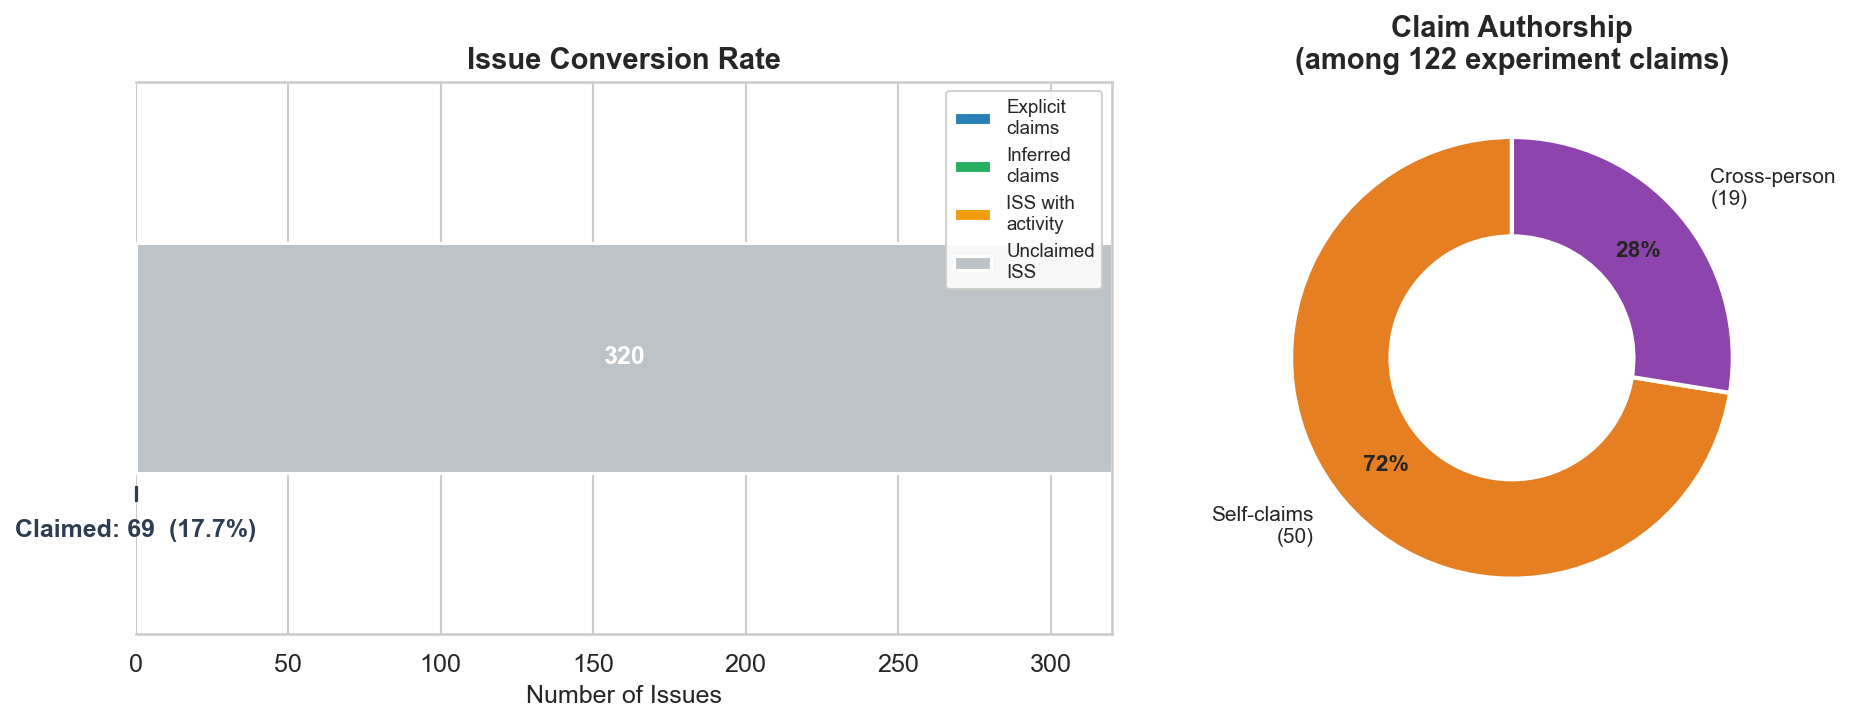
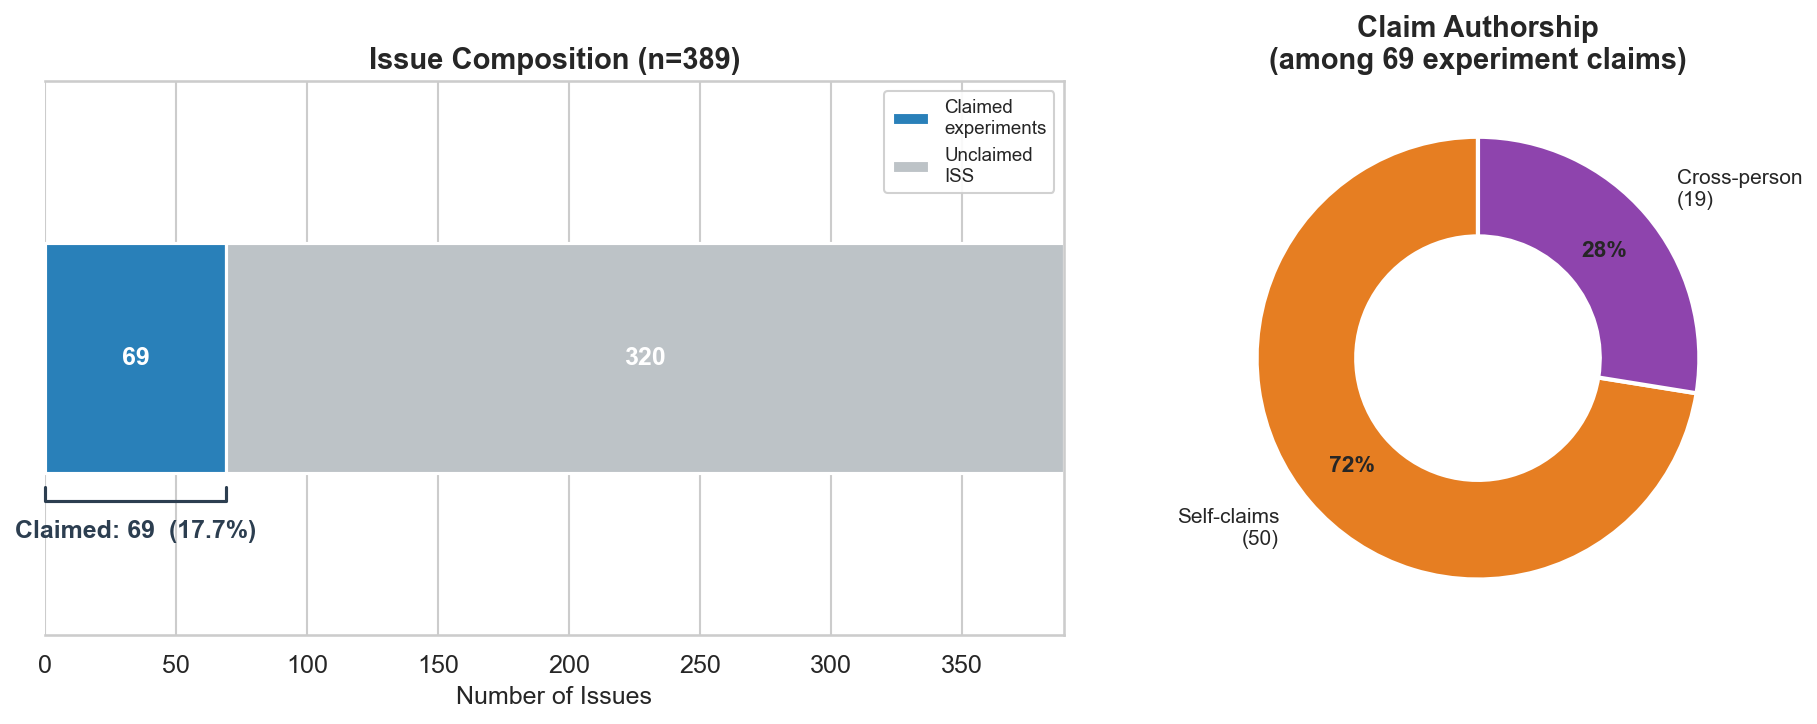
Fix fig1 PNG: simplify to 2-segment bar (claimed vs unclaimed)
The old 4-segment breakdown (explicit/inferred/ISS with activity/unclaimed)
had all zeros except unclaimed, rendering only one visible bar. Simplified
to claimed experiments (69) vs unclaimed ISS (320). Also updated the HTML
interactive version with current data (389/69/25/44).

diff --git a/output/evidence_bundles/evd1-conversion-rate/fig1_conversion_rate.html b/output/evidence_bundles/evd1-conversion-rate/fig1_conversion_rate.html
@@ -385,33 +385,33 @@
 <body>
     <div class="container">
         <h1>Issue Conversion Rate</h1>
-        <div class="subtitle">MATSUlab discourse graph &middot; January 2026 snapshot &middot; EVD 1</div>
+        <div class="subtitle">MATSUlab discourse graph &middot; February 2026 snapshot &middot; EVD 1</div>
 
         <div class="evidence-statement">
-            <strong>Result:</strong> 29% of MATSUlab issues (n=434) were claimed as experiments and 38% of those claimed at least one formal result node, yielding 136 total RES nodes.
+            <strong>Result:</strong> 18% of MATSUlab issues (n=389) were claimed as experiments and 36% of those claimed at least one formal result node, yielding 44 total RES nodes.
         </div>
 
         <!-- Summary cards -->
         <div class="summary-cards">
             <div class="card animate-fade animate-delay-1">
-                <div class="card-number" style="color: #6b7280;">434</div>
+                <div class="card-number" style="color: #6b7280;">389</div>
                 <div class="card-label">Total Issues</div>
-                <div class="card-sublabel">312 ISS + 122 experiments</div>
+                <div class="card-sublabel">320 ISS + 69 experiments</div>
             </div>
             <div class="card animate-fade animate-delay-2">
-                <div class="card-number" style="color: #2563eb;">127</div>
+                <div class="card-number" style="color: #2563eb;">69</div>
                 <div class="card-label">Claimed</div>
-                <div class="card-sublabel">29.3% conversion rate</div>
+                <div class="card-sublabel">17.7% conversion rate</div>
             </div>
             <div class="card animate-fade animate-delay-3">
-                <div class="card-number" style="color: #7c3aed;">48</div>
+                <div class="card-number" style="color: #7c3aed;">25</div>
                 <div class="card-label">Produced Results</div>
-                <div class="card-sublabel">38% of claimed</div>
+                <div class="card-sublabel">36% of claimed</div>
             </div>
             <div class="card animate-fade animate-delay-4">
-                <div class="card-number" style="color: #059669;">136</div>
+                <div class="card-number" style="color: #059669;">44</div>
                 <div class="card-label">Total RES Nodes</div>
-                <div class="card-sublabel">avg 2.8 per experiment</div>
+                <div class="card-sublabel">avg 1.8 per experiment</div>
             </div>
         </div>
 
@@ -419,7 +419,7 @@
         <div class="panels">
             <!-- Left panel: stacked bar -->
             <div class="panel">
-                <div class="panel-title">Issue Composition (n=434)</div>
+                <div class="panel-title">Issue Composition (n=389)</div>
                 <div class="bar-container">
                     <div class="stacked-bar" id="stackedBar">
                         <!-- Segments will be rendered by JS -->
@@ -442,7 +442,7 @@
 
             <!-- Right panel: donut -->
             <div class="panel">
-                <div class="panel-title">Claim Authorship (n=122 experiment claims)</div>
+                <div class="panel-title">Claim Authorship (n=69 experiment claims)</div>
                 <div class="donut-wrapper">
                     <svg class="donut-svg" viewBox="0 0 220 220" id="donutSvg">
                         <!-- Donut arcs rendered by JS -->
@@ -465,24 +465,22 @@
     // ── Data ──
     const data = {
         segments: [
-            { label: 'Explicit claims', value: 68, color: '#2980b9', desc: 'Experiment pages with Claimed By:: metadata field populated with a researcher name.' },
-            { label: 'Inferred claims', value: 54, color: '#27ae60', desc: 'Experiment pages with experimental log entries but no Claimed By:: field. Claim inferred from page creator.' },
-            { label: 'ISS with activity', value: 5, color: '#f39c12', desc: 'ISS pages that were never renamed to experiment format but contain experimental log entries.' },
-            { label: 'Unclaimed ISS', value: 307, color: '#bdc3c7', desc: 'ISS pages with no evidence of active work. Remain in the Issues board as open questions.' },
+            { label: 'Claimed experiments', value: 69, color: '#2980b9', desc: 'Issues that were claimed as experiments — either via explicit Claimed By:: field, inferred from experimental log entries, or ISS pages with active work.' },
+            { label: 'Unclaimed ISS', value: 320, color: '#bdc3c7', desc: 'ISS pages with no evidence of active work. Remain in the Issues board as open questions.' },
         ],
-        totalIssues: 434,
-        totalClaimed: 127,
-        conversionPct: 29.3,
+        totalIssues: 389,
+        totalClaimed: 69,
+        conversionPct: 17.7,
         authorship: [
-            { label: 'Self-claims', value: 103, color: '#e67e22', desc: 'Issue creator and claimer are the same person.' },
+            { label: 'Self-claims', value: 50, color: '#e67e22', desc: 'Issue creator and claimer are the same person.' },
             { label: 'Cross-person', value: 19, color: '#8e44ad', desc: 'A different researcher claimed the issue — representing idea exchange between lab members.' },
         ],
-        authorshipTotal: 122,
+        authorshipTotal: 69,
         funnel: [
-            { label: 'All Issues', value: 434, color: '#94a3b8', pct: '100%' },
-            { label: 'Claimed', value: 127, color: '#2563eb', pct: '29%' },
-            { label: 'With Results', value: 48, color: '#7c3aed', pct: '38% of claimed' },
-            { label: 'RES Nodes', value: 136, color: '#059669', pct: 'avg 2.8 each' },
+            { label: 'All Issues', value: 389, color: '#94a3b8', pct: '100%' },
+            { label: 'Claimed', value: 69, color: '#2563eb', pct: '18%' },
+            { label: 'With Results', value: 25, color: '#7c3aed', pct: '36% of claimed' },
+            { label: 'RES Nodes', value: 44, color: '#059669', pct: 'avg 1.8 each' },
         ],
     };
 
@@ -648,7 +646,7 @@
         centerText1.setAttribute('x', cx);
         centerText1.setAttribute('y', cy - 6);
         centerText1.setAttribute('class', 'donut-center-number');
-        centerText1.textContent = '122';
+        centerText1.textContent = '69';
         svg.appendChild(centerText1);
 
         const centerText2 = document.createElementNS('http://www.w3.org/2000/svg', 'text');
@@ -704,9 +702,9 @@
                 arrow.className = 'funnel-arrow';
 
                 let arrowLabel = '';
-                if (i === 0) arrowLabel = '29%';
-                else if (i === 1) arrowLabel = '38%';
-                else if (i === 2) arrowLabel = '2.8x';
+                if (i === 0) arrowLabel = '18%';
+                else if (i === 1) arrowLabel = '36%';
+                else if (i === 2) arrowLabel = '1.8x';
 
                 arrow.innerHTML = `
                     <svg viewBox="0 0 32 20" fill="none">

diff --git a/src/generate_visualizations.py b/src/generate_visualizations.py
@@ -71,7 +71,7 @@ def _normalize_name(name: str) -> str:
 # ────────────────────────────────────────────────
 def create_conversion_rate_figure(metrics: dict, output_dir: Path):
     """
-    Left panel:  stacked horizontal bar showing composition of all 434 issues
+    Left panel:  stacked horizontal bar — claimed experiments (blue) vs unclaimed ISS (grey)
     Right panel: donut showing self vs cross-person among claimed experiments
     """
     conv = metrics['metrics']['conversion_rate']
@@ -79,40 +79,39 @@ def create_conversion_rate_figure(metrics: dict, output_dir: Path):
     fig, (ax1, ax2) = plt.subplots(1, 2, figsize=(13, 5),
                                     gridspec_kw={'width_ratios': [1.4, 1]})
 
-    # --- Left: stacked horizontal bar ---
-    categories = ['Explicit\nclaims', 'Inferred\nclaims', 'ISS with\nactivity', 'Unclaimed\nISS']
-    values = [conv['explicit_claims'], conv['inferred_claims'],
-              conv['iss_with_activity'], conv['unclaimed_iss']]
-    colors = [C_EXPLICIT, C_INFERRED, C_ISS_ACT, C_UNCLAIMED]
+    # --- Left: stacked horizontal bar (claimed vs unclaimed) ---
+    claimed_total = conv['total_claimed']
+    unclaimed_total = conv['unclaimed_iss']
+    total_issues = claimed_total + unclaimed_total
+
+    categories = ['Claimed\nexperiments', 'Unclaimed\nISS']
+    values = [claimed_total, unclaimed_total]
+    colors = [C_EXPLICIT, C_UNCLAIMED]
 
     # Single stacked bar
     left = 0
     for val, color, cat in zip(values, colors, categories):
-        bar = ax1.barh(0, val, left=left, color=color, edgecolor='white',
-                       linewidth=1.5, height=0.5, label=cat)
-        # Label inside bar if wide enough
+        ax1.barh(0, val, left=left, color=color, edgecolor='white',
+                 linewidth=1.5, height=0.5, label=cat)
         if val > 20:
             ax1.text(left + val / 2, 0, str(val),
                      ha='center', va='center', fontweight='bold',
                      fontsize=12, color='white')
         left += val
 
-    # Bracket for "Claimed = 127"
-    claimed_total = conv['total_claimed']
-    claimed_width = values[0] + values[1] + values[2]
+    # Bracket annotation for claimed portion
     ax1.annotate(f'Claimed: {claimed_total}  ({conv["conversion_rate_percent"]}%)',
-                 xy=(claimed_width / 2, -0.35), fontsize=12, fontweight='bold',
+                 xy=(claimed_total / 2, -0.35), fontsize=12, fontweight='bold',
                  ha='center', va='top', color='#2c3e50')
-    # Bracket lines
-    ax1.plot([0, 0, claimed_width, claimed_width],
+    ax1.plot([0, 0, claimed_total, claimed_total],
              [-0.28, -0.31, -0.31, -0.28],
              color='#2c3e50', linewidth=1.5, clip_on=False)
 
-    ax1.set_xlim(0, sum(values))
+    ax1.set_xlim(0, total_issues)
     ax1.set_ylim(-0.6, 0.6)
     ax1.set_yticks([])
     ax1.set_xlabel('Number of Issues')
-    ax1.set_title('Issue Conversion Rate')
+    ax1.set_title(f'Issue Composition (n={total_issues})')
     ax1.legend(loc='upper right', fontsize=9, framealpha=0.9)
     ax1.spines['left'].set_visible(False)
 
@@ -133,7 +132,7 @@ def create_conversion_rate_figure(metrics: dict, output_dir: Path):
         at.set_fontweight('bold')
         at.set_fontsize(11)
 
-    ax2.set_title('Claim Authorship\n(among 122 experiment claims)')
+    ax2.set_title(f'Claim Authorship\n(among {claimed_total} experiment claims)')
 
     plt.tight_layout()
     path = output_dir / 'fig1_conversion_rate.png'
